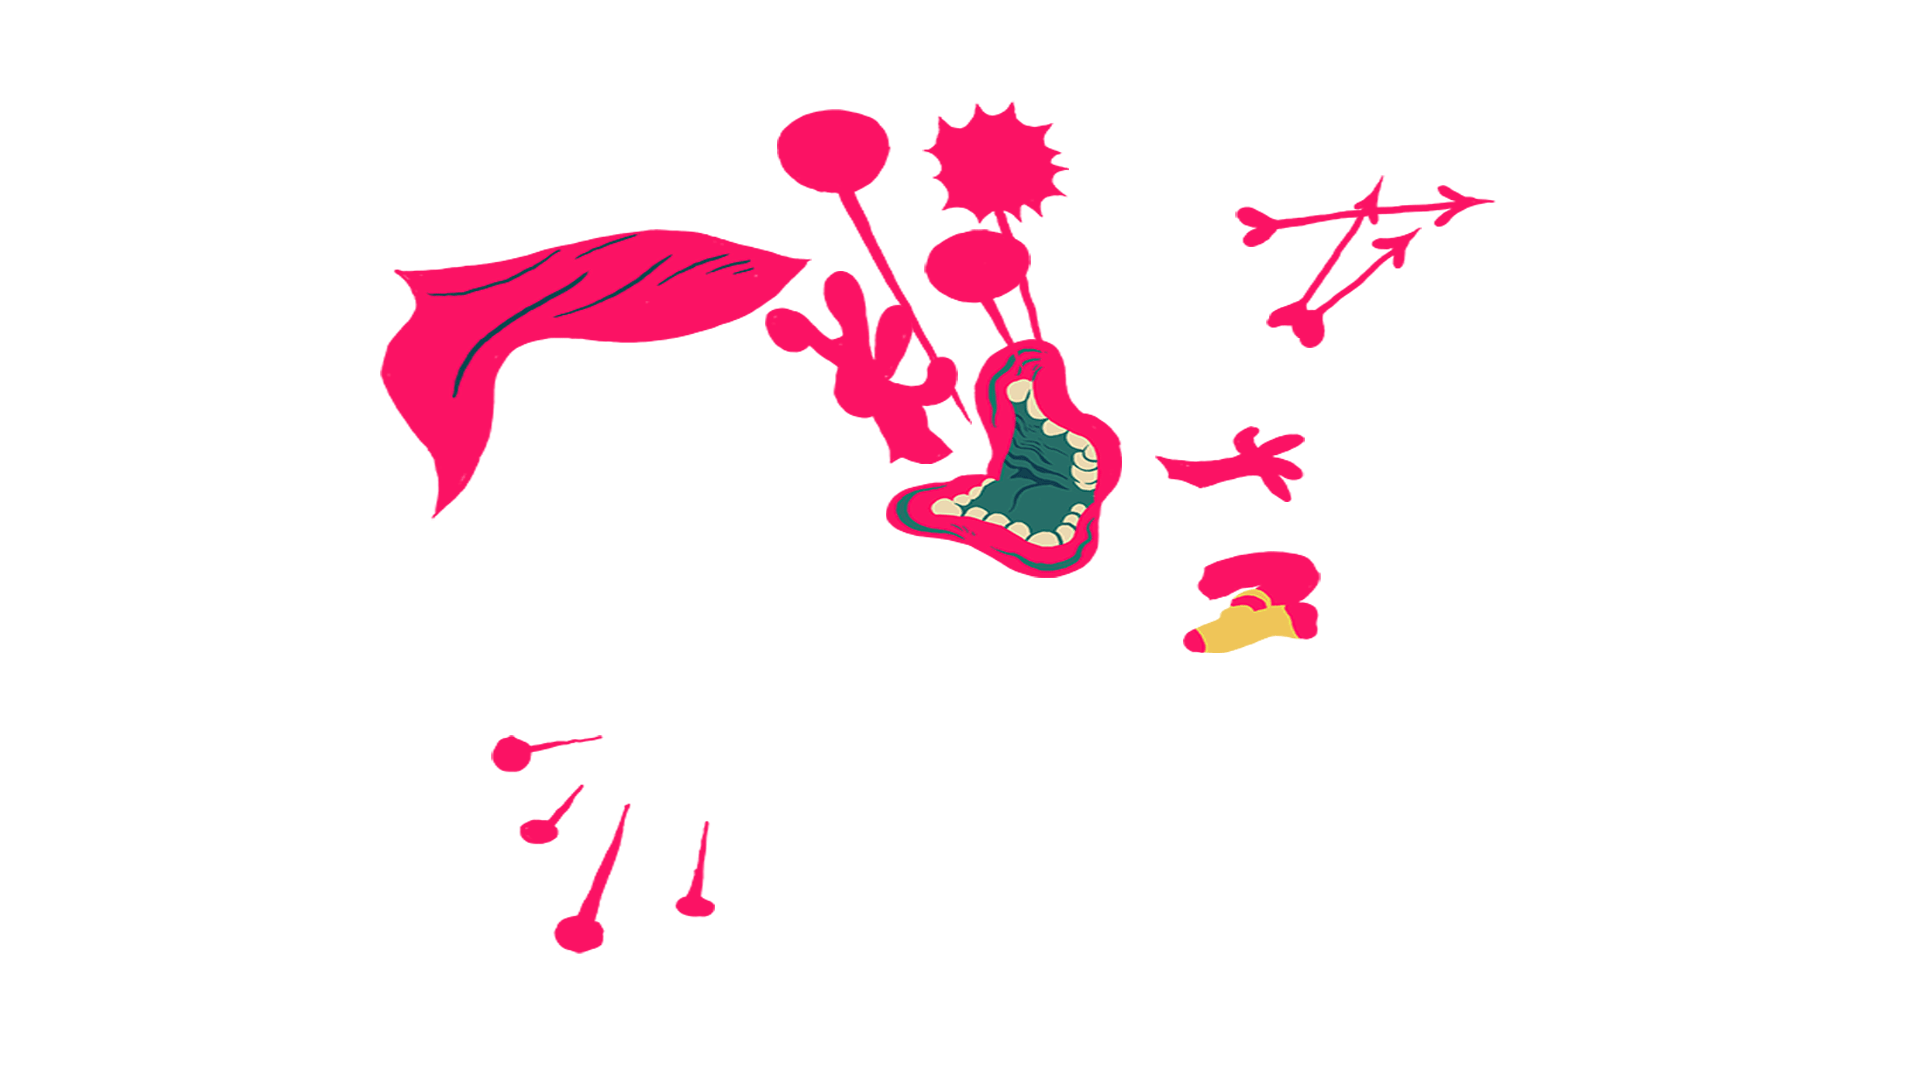
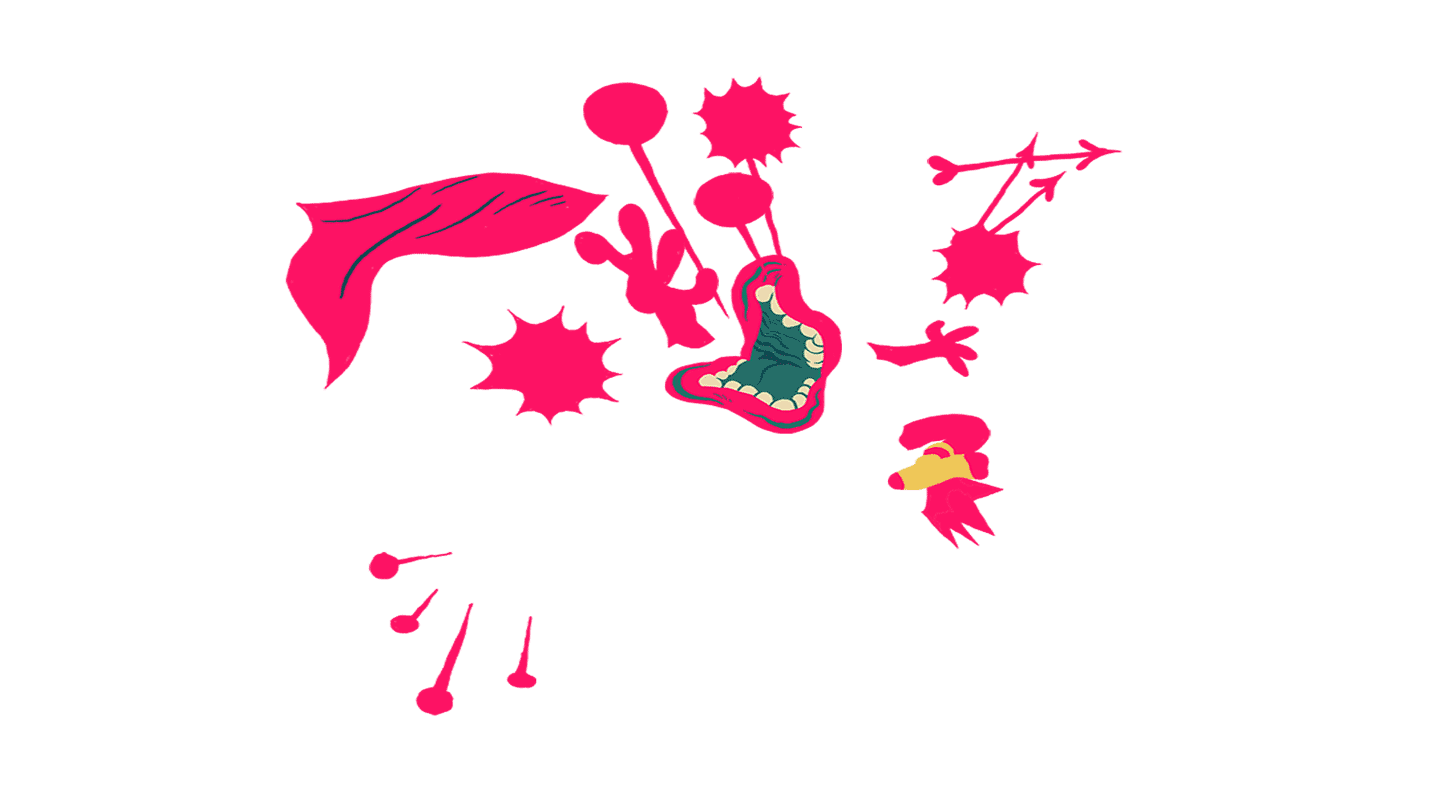
Functioning V2
lowered resolution of images
main image included
some lag still
main doesnt always reappear

diff --git a/sketch.js b/sketch.js
@@ -7,8 +7,8 @@
 //     VARIABLES
 //-------------------------------------------------------------
 
-var animateR, animateA, animateCO = false;
-var fadeR, fadeA, fadeCO;
+var animateR, animateA, animateCO, mainOff = false;
+var fadeR, fadeA, fadeCO, fadeMain;
 var linkOffset = 60;
 var linkBuffer = 60;
 var layerR, layerA, layerCO;
@@ -20,9 +20,10 @@ var layerR, layerA, layerCO;
 
 function preload() {
 
-  layerR = loadImage('assets/layerR.png');
-  layerA = loadImage('assets/layerA.png');
-  layerCO = loadImage('assets/layerCO.png');
+  layerR = loadImage('assets/RedLayer.png');
+  layerA = loadImage('assets/BlueLayer.png');
+  layerCO = loadImage('assets/VioletLayer.png');
+  layerMain = loadImage('assets/LayerAll.png')
   amLogo = loadImage('assets/amlogo.png');
 }
 
@@ -57,7 +58,6 @@ function setup() {
 
   linkCO = createA('#', 'CALL-OUTS');
 
-
   linkAO = createA('pdf/AM_AntiO.pdf', 'ANTI-OPPRESSION STATEMENT');
 
   linkEN = createA('index.html', 'EN');
@@ -80,6 +80,7 @@ function setup() {
   fadeA = 0;
   fadeCO = 0;
   fadeR = 0;
+  fadeMain = 255;
 
 }
 
@@ -114,9 +115,25 @@ function draw() {
   //     PNG ANIMATIONS (DRAW)
   //-------------------------------------------------------------
 
+  //align with the cnter of the page
+  imageMode(CENTER);
+
+  //---MAIN---
+  tint(255, fadeMain);
+  image(layerMain, windowWidth/2, height/2, windowWidth, windowHeight);
+
+  var c = color(255, 0, 255, fadeMain);
+  fill(c);
+
+  if (mainOff == true) {
+    fadeMain -= 50;
+  } else{
+    fadeMain += 10;
+  }
+
   //---R---
   tint(255, fadeR);
-  image(layerR, 70, -100);
+  image(layerR, windowWidth/2, height/2, windowWidth, windowHeight);
 
   var c = color(255, 0, 255, fadeR);
   fill(c);
@@ -124,9 +141,10 @@ function draw() {
   if (animateR == true && fadeR <= 255) {
     fadeR += 10;
   }
+
   //---A---
   tint(255, fadeA);
-  image(layerA, 70, -100);
+  image(layerA, windowWidth/2, height/2, windowWidth, windowHeight);
 
   var c = color(255, 0, 255, fadeA);
   fill(c);
@@ -134,9 +152,11 @@ function draw() {
   if (animateA == true && fadeA <= 255) {
     fadeA += 10;
   }
+
   //---CO---
   tint(255, fadeCO);
-  image(layerCO, 70, -100);
+  image(layerCO, windowWidth/2, height/2, windowWidth, windowHeight);
+
 
   var c = color(255, 0, 255, fadeCO);
   fill(c);
@@ -164,30 +184,40 @@ function draw() {
 function overLinkR() {
   animateR = true;
   linkR.style('font-style', 'italic');
+  mainOff = true;
 }
 
 function offLinkR() {
   animateR = false;
   fadeR = 0;
   linkR.style('font-style', 'normal');
+  mainOff = false;
 }
 
 function overLinkA() {
   animateA = true;
+  linkA.style('font-style', 'italic');
+  mainOff = true;
 }
 
 function offLinkA() {
   animateA = false;
   fadeA = 0;
+  linkA.style('font-style', 'normal');
+  mainOff = false;
 }
 
 function overLinkCO() {
   animateCO = true;
+  linkCO.style('font-style', 'italic');
+  mainOff = true;
 }
 
 function offLinkCO() {
   animateCO = false;
   fadeCO = 0;
+  linkCO.style('font-style', 'normal');
+  mainOff = false;
 }
 
 function windowResized() {
